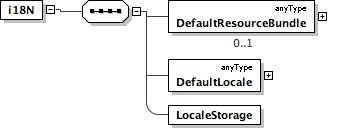
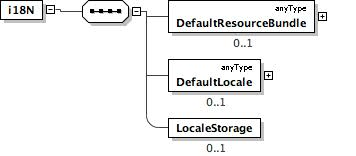
New documentation for i18n
git-svn-id: http://subversion.assembla.com/svn/coldbox/coldbox/trunk@121 aa9c7f36-201a-0410-b936-d08bb24d9cb0

Changed region(s): [[0.0, 0.0, 0.8961, 0.9846], [0.4635, 0.0, 0.8961, 0.0923], [0.8961, 0.0615, 0.927, 0.1846]]

diff --git a/documents/SchemaDocs/index.html b/documents/SchemaDocs/index.html
@@ -3,7 +3,7 @@
   PUBLIC "-//W3C//DTD XHTML 1.0 Strict//EN" "http://www.w3.org/TR/xhtml1/DTD/xhtml1-strict.dtd">
 <html xmlns="http://www.w3.org/1999/xhtml">
    <head>
-      <title>Documentation for ColdBox's 1.1.0 Config.xml - config.xsd</title>
+      <title>Documentation for ColdBox 1.1.0's Config.xml - config.xsd</title>
       <meta http-equiv="Content-Type" content="text/xml; charset=UTF-8"/>
       <style type="text/css">
 /* ~~~~~~~~~~~~~~~~~~~~~~~~~~~~~~~~~~~~~~~~~~~~~~~~~~~~~~ */
@@ -725,7 +725,7 @@ function viewDocumentation(compDesc, compName, docTextArray) {
    </head>
    <body>
       <h1>
-         <a name="top">Documentation for ColdBox's 1.1.0 Config.xml</a>
+         <a name="top">Documentation for ColdBox 1.1.0's Config.xml</a>
       </h1>
       <div style="float: right;">
          <div id="printerControls" style="display:none;">
@@ -1071,7 +1071,7 @@ if (gc != null) {
          </tr>
          <tr>
             <th>
-               <a title="Look up 'Abstract' in glossary" href="index.<em>html</em>#term_Abstract">Abstract</a>
+               <a title="Look up 'Abstract' in glossary" href="index.html#term_Abstract">Abstract</a>
             </th>
             <td>no</td>
          </tr>
@@ -1926,7 +1926,7 @@ if (gc != null) {
                <area shape="rect" alt="h-785168978" coords="168,0,354,49"
                      href="index.html#h-785168978"/>
 
-               <area shape="rect" alt="h751539160" coords="168,59,300,95"
+               <area shape="rect" alt="h751539160" coords="168,59,300,108"
                      href="index.html#h751539160"/>
 
             </map>
@@ -1949,12 +1949,12 @@ if (gc != null) {
                <div style="margin-left: 1.5em">&lt;DefaultResourceBundle&gt; ... &lt;/DefaultResourceBundle&gt; <span class="occurs">[0..1]</span> 
                   <p class="documentation">'The path to the resource bundle to load.'</p>
                </div>
-               <div style="margin-left: 1.5em">&lt;DefaultLocale&gt; ... &lt;/DefaultLocale&gt; <span class="occurs">[1]</span> 
+               <div style="margin-left: 1.5em">&lt;DefaultLocale&gt; ... &lt;/DefaultLocale&gt; <span class="occurs">[0..1]</span> 
                   <p class="documentation">'The default locale in the standard Java locale names'</p>
                </div>
                <div style="margin-left: 1.5em">&lt;LocaleStorage&gt; <span class="constraint">
                      <span class="type">
-                        <a href="#ns_xs" title="Find out namespace of 'xs' prefix">xs</a>:string</span> (<em>value</em> comes from list: {'client'|'session'})</span> &lt;/LocaleStorage&gt; <span class="occurs">[1]</span> 
+                        <a href="#ns_xs" title="Find out namespace of 'xs' prefix">xs</a>:string</span> (<em>value</em> comes from list: {'client'|'session'})</span> &lt;/LocaleStorage&gt; <span class="occurs">[0..1]</span> 
                   <p class="documentation">'The storage scope of the locale setting. Preferred is session.'</p>
                </div>&lt;/i18N&gt;</div>
          </div>
@@ -1995,9 +1995,9 @@ if (gc != null) {
                <span class="scTag">name</span>="<span class="scContent">i18N</span>"&gt;<div style="margin-left: 1.5em">&lt;<span class="scTag">xs:complexType</span>&gt;<div style="margin-left: 1.5em">&lt;<span class="scTag">xs:sequence</span>&gt;<div style="margin-left: 1.5em">&lt;<span class="scTag">xs:element</span> 
                         <span class="scTag">name</span>="<span class="scContent">DefaultResourceBundle</span>" <span class="scTag">maxOccurs</span>="<span class="scContent">1</span>" <span class="scTag">minOccurs</span>="<span class="scContent">0</span>"/&gt;</div>
                      <div style="margin-left: 1.5em">&lt;<span class="scTag">xs:element</span> 
-                        <span class="scTag">name</span>="<span class="scContent">DefaultLocale</span>" <span class="scTag">maxOccurs</span>="<span class="scContent">1</span>" <span class="scTag">minOccurs</span>="<span class="scContent">1</span>"/&gt;</div>
+                        <span class="scTag">name</span>="<span class="scContent">DefaultLocale</span>" <span class="scTag">maxOccurs</span>="<span class="scContent">1</span>" <span class="scTag">minOccurs</span>="<span class="scContent">0</span>"/&gt;</div>
                      <div style="margin-left: 1.5em">&lt;<span class="scTag">xs:element</span> 
-                        <span class="scTag">name</span>="<span class="scContent">LocaleStorage</span>" <span class="scTag">maxOccurs</span>="<span class="scContent">1</span>" <span class="scTag">minOccurs</span>="<span class="scContent">1</span>"&gt;<div style="margin-left: 1.5em">&lt;<span class="scTag">xs:simpleType</span>&gt;<div style="margin-left: 1.5em">&lt;<span class="scTag">xs:restriction</span> 
+                        <span class="scTag">name</span>="<span class="scContent">LocaleStorage</span>" <span class="scTag">maxOccurs</span>="<span class="scContent">1</span>" <span class="scTag">minOccurs</span>="<span class="scContent">0</span>"&gt;<div style="margin-left: 1.5em">&lt;<span class="scTag">xs:simpleType</span>&gt;<div style="margin-left: 1.5em">&lt;<span class="scTag">xs:restriction</span> 
                               <span class="scTag">base</span>="<span class="scContent">
                                  <span class="type">
                                     <a href="#ns_xs" title="Find out namespace of 'xs' prefix">xs</a>:string</span>
